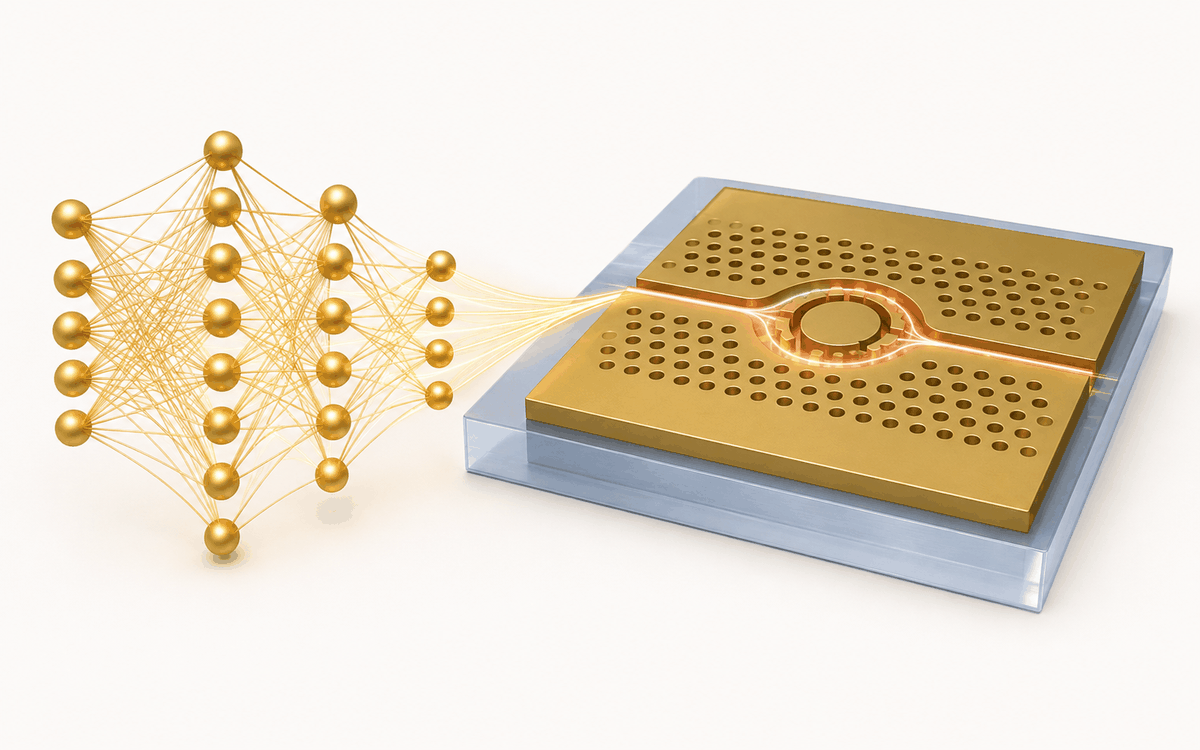
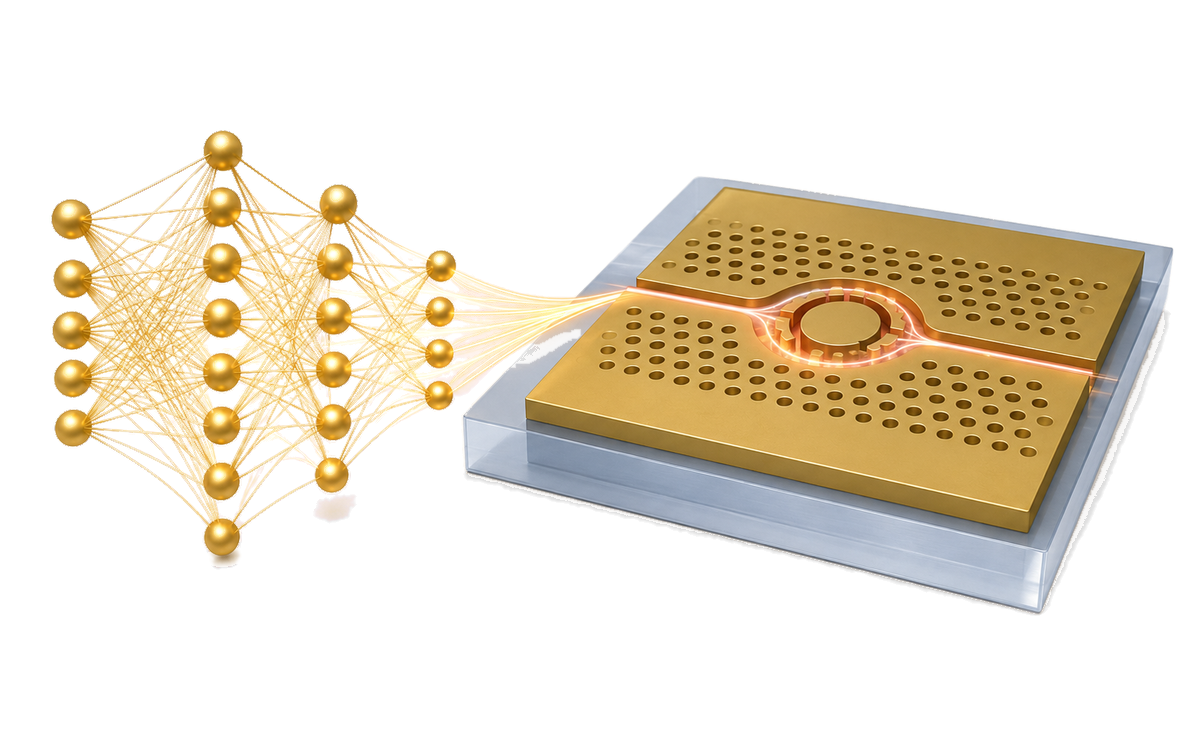
style: convert figure schematics to transparent RGBA and remove bordered plates

diff --git a/app/globals.css b/app/globals.css
@@ -24,10 +24,7 @@
   --input: #e6e1d7;
   --ring: #b68c61;
   --radius: 0.375rem;
-  --figure-plate-bg: #faf7f2;
-  --figure-plate-border: #e6e1d7;
-  --figure-plate-ring: rgba(15, 23, 42, 0.04);
-  --figure-img-filter: none;
+  --figure-img-filter: drop-shadow(0 10px 22px rgba(20, 17, 14, 0.08));
 }
 
 @media (prefers-color-scheme: dark) {
@@ -54,10 +51,7 @@
     --ring: #c9a57a;
     --destructive: oklch(0.55 0.16 30);
     --destructive-foreground: oklch(0.945 0.008 70);
-    --figure-plate-bg: #eae4d9;
-    --figure-plate-border: oklch(0.32 0.01 65);
-    --figure-plate-ring: rgba(0, 0, 0, 0.08);
-    --figure-img-filter: brightness(0.96) contrast(1.03);
+    --figure-img-filter: drop-shadow(0 14px 28px rgba(0, 0, 0, 0.42));
   }
 }
 
@@ -84,10 +78,7 @@
   --ring: #c9a57a;
   --destructive: oklch(0.55 0.16 30);
   --destructive-foreground: oklch(0.945 0.008 70);
-  --figure-plate-bg: #eae4d9;
-  --figure-plate-border: oklch(0.32 0.01 65);
-  --figure-plate-ring: rgba(0, 0, 0, 0.08);
-  --figure-img-filter: brightness(0.96) contrast(1.03);
+  --figure-img-filter: drop-shadow(0 14px 28px rgba(0, 0, 0, 0.42));
 }
 
 @theme inline {
@@ -211,16 +202,12 @@
     @apply text-[11px] font-semibold uppercase tracking-[0.14em] text-accent;
   }
 
-  /* Archival figure plate: blends near-white scientific illustrations smoothly in light and dark modes */
+  /* Seamless transparent scientific figures across light and dark surfaces */
   .figure-plate {
-    background-color: var(--figure-plate-bg);
-    border: 1px solid var(--figure-plate-border);
-    box-shadow: inset 0 0 0 1px var(--figure-plate-ring);
-    @apply overflow-hidden rounded-lg p-2.5 sm:p-3;
+    @apply overflow-visible py-1;
   }
 
   .figure-plate-img {
-    mix-blend-mode: multiply;
     filter: var(--figure-img-filter);
   }
 
